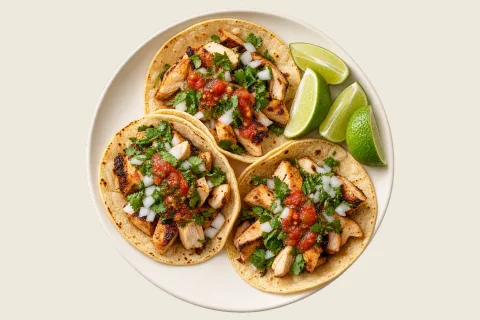
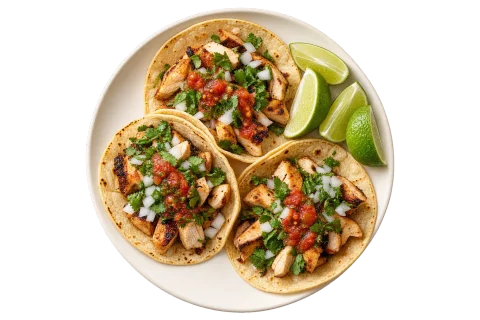
Preserve transparent food cutouts and correct rotating table texture

diff --git a/savor-atlas/index.html b/savor-atlas/index.html
@@ -86,8 +86,12 @@ html[data-motion="reduced"] *,html[data-motion="reduced"] *::before,html[data-mo
 
 /* Each tile shows the complete plate; one-finger rotation still permits pinch zoom. */
 #stage{touch-action:pinch-zoom}
-.sphere-card img,.sphere-preview img{object-fit:contain;background:#eee8dc}
-.sphere-card figure{border-radius:7px}
+.sphere-card img,.sphere-preview img{object-fit:contain;background:transparent}
+.sphere-card figure{background:transparent;border-radius:0;overflow:visible}
+.sphere-card figure::after{content:none}
+.sphere-card img.ready{opacity:calc(1 - var(--d,0))}
+.sphere-card.is-previewed figure{box-shadow:none}
+.sphere-card.is-previewed img{opacity:1;filter:drop-shadow(0 0 7px #d7e6a080)}
 .button:active,.atlas-controls summary:active{background:#d7e6a022}
 </style>
 </head>

diff --git a/savor-atlas/source/home.css b/savor-atlas/source/home.css
@@ -15,6 +15,10 @@ html[data-motion="reduced"] *,html[data-motion="reduced"] *::before,html[data-mo
 
 /* Each tile shows the complete plate; one-finger rotation still permits pinch zoom. */
 #stage{touch-action:pinch-zoom}
-.sphere-card img,.sphere-preview img{object-fit:contain;background:#eee8dc}
-.sphere-card figure{border-radius:7px}
+.sphere-card img,.sphere-preview img{object-fit:contain;background:transparent}
+.sphere-card figure{background:transparent;border-radius:0;overflow:visible}
+.sphere-card figure::after{content:none}
+.sphere-card img.ready{opacity:calc(1 - var(--d,0))}
+.sphere-card.is-previewed figure{box-shadow:none}
+.sphere-card.is-previewed img{opacity:1;filter:drop-shadow(0 0 7px #d7e6a080)}
 .button:active,.atlas-controls summary:active{background:#d7e6a022}

diff --git a/savor-atlas/assets/cooking/table-presets.css b/savor-atlas/assets/cooking/table-presets.css
@@ -8,6 +8,10 @@
 
 html[data-table="walnut"] .table-surface  {
   background-image: url('table-walnut.webp');
+  /* Sample the interior wood grain; the source photograph has its own rim. */
+  background-size: 140% 140%;
+  background-position: center;
+  background-repeat: no-repeat;
   filter: saturate(.82) brightness(.94) drop-shadow(0 7px 3px #38271918) drop-shadow(0 17px 25px #3e35261a);
 }
 

diff --git a/savor-atlas/README.md b/savor-atlas/README.md
@@ -29,6 +29,6 @@ The table interface, furniture texture, original ingredient atlas, icons and fon
 
 Recipes are practical home-kitchen adaptations written for this prototype, not a collection of kitchen-tested original recipes. Timings depend on equipment, thickness and batch size; increasing servings does not automatically increase cooking time. Food-safety notes link to [USDA FSIS](https://www.fsis.usda.gov/food-safety/safe-food-handling-and-preparation/food-safety-basics/safe-temperature-chart) and [FDA egg guidance](https://www.fda.gov/food/buy-store-serve-safe-food/what-you-need-know-about-egg-safety). The Be Vietnam Pro license is retained at `assets/cooking/fonts/BeVietnamPro-OFL.txt`.
 
-Globe thumbnails preserve the entire plate inside a 480×320 frame. Rebuild them with `node scripts/build-thumbnails.cjs` when dish images change; that local image utility uses this workstation’s bundled Sharp. Production serves the prepared WebP files directly and shares each thumbnail across repeated globe tiles, with no runtime canvas conversion.
+Globe thumbnails preserve the entire plate and the original alpha transparency inside a 480×320 frame. Globe tiles have no rectangular background, border or shading overlay; depth is expressed through the plate image’s opacity. Rebuild thumbnails with `node scripts/build-thumbnails.cjs` when dish images change; that local image utility uses this workstation’s bundled Sharp. Production serves the prepared WebP files directly and shares each thumbnail across repeated globe tiles, with no runtime canvas conversion.
 
 Local verification uses `tests/cooking-flow.cjs`, `tests/sphere-and-layout.cjs`, `tests/motion-preference.cjs`, `tests/world-recipes.cjs` and `tests/mobile-ux.cjs`. The test scripts reference this workstation’s bundled Playwright and Edge installation; production requires neither.
